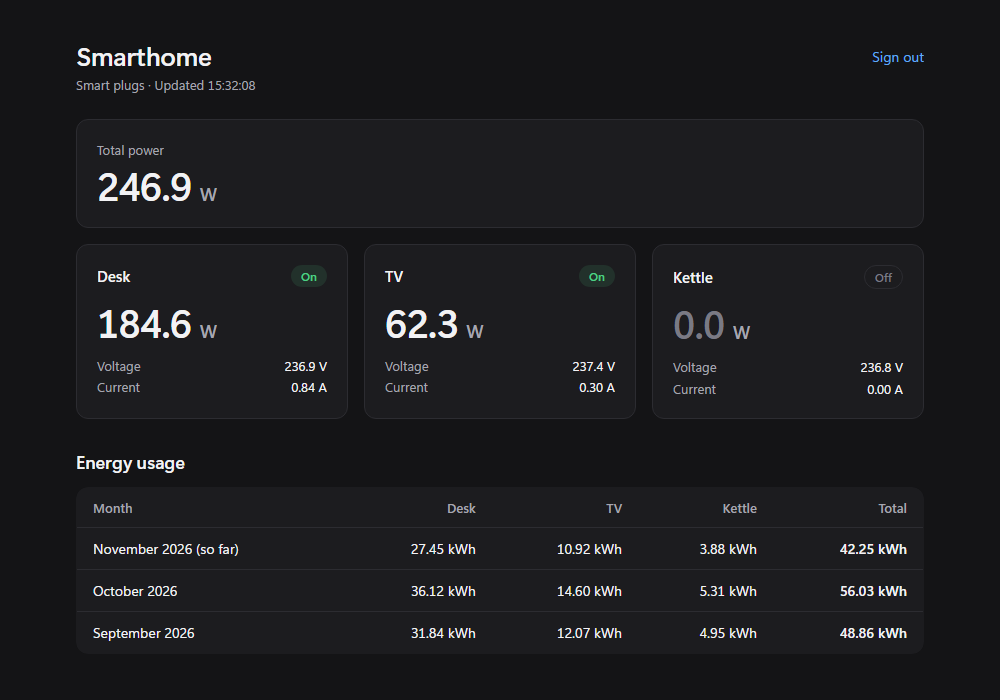
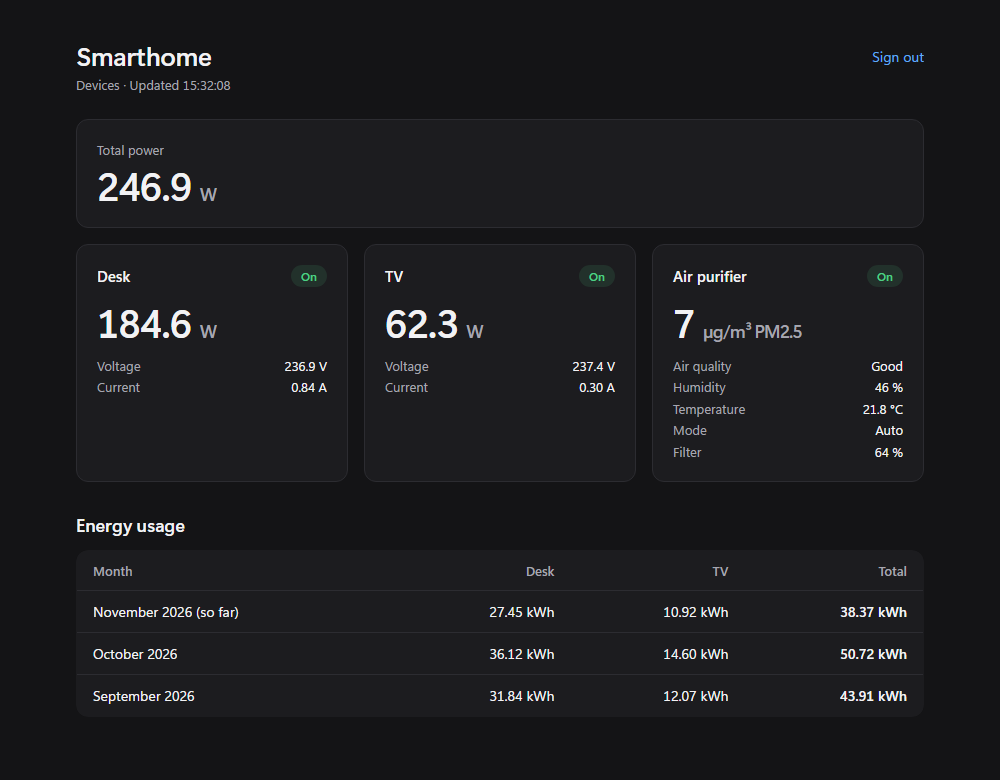
Add the Xiaomi Smart Air Purifier 4 Pro as a dashboard card
Reads PM2.5, humidity, temperature, mode, filter life and faults over
the local miIO protocol. Read-only, like the plugs.

diff --git a/app.js b/app.js
@@ -28,6 +28,34 @@ function card(p) {
   return c;
 }
 
+// PM2.5 bands of the European Air Quality Index (µg/m³)
+const PM25 = [[10, 'Good'], [20, 'Fair'], [25, 'Moderate'], [50, 'Poor'], [75, 'Very poor'], [Infinity, 'Extremely poor']];
+
+function airCard(a) {
+  const c = el('article', 'card' + (a.error || !a.on ? ' off' : ''));
+  const h = el('h2', '', a.name);
+  h.append(el('span', 'pill', a.error ? 'Offline' : a.on ? 'On' : 'Off'));
+  c.append(h);
+  if (a.error) {
+    c.append(el('p', 'err', a.error));
+    return c;
+  }
+  const big = el('p', 'big', a.pm25 + ' ');
+  big.append(el('small', '', 'µg/m³ PM2.5'));
+  const dl = el('dl');
+  const rows = [
+    ['Air quality', PM25.find(([max]) => a.pm25 <= max)[1]],
+    ['Humidity', a.humidity + ' %'],
+    ['Temperature', fmt(a.temp) + ' °C'],
+    ['Mode', a.mode ?? '–'],
+    ['Filter', a.filter + ' %'],
+  ];
+  for (const [k, v] of rows) dl.append(el('dt', '', k), el('dd', '', v));
+  c.append(big, dl);
+  if (a.fault) c.append(el('p', 'warn', a.fault));
+  return c;
+}
+
 function usageTable(months, names) {
   const keys = Object.keys(months || {}).reverse();
   $('empty').hidden = keys.length > 0;
@@ -55,7 +83,7 @@ async function load() {
     const r = await fetch('api.php', { cache: 'no-store' });
     if (r.status === 401) { location.reload(); return; }
     const d = await r.json();
-    $('plugs').replaceChildren(...d.plugs.map(card));
+    $('plugs').replaceChildren(...d.plugs.map(card), ...(d.air ? [airCard(d.air)] : []));
     $('total').textContent = fmt(d.plugs.reduce((s, p) => s + (p.w || 0), 0));
     usageTable(d.months, d.plugs.map((p) => p.name));
     $('updated').textContent = 'Updated ' + new Date(d.time * 1000).toLocaleTimeString(LOCALE);

diff --git a/style.css b/style.css
@@ -54,3 +54,4 @@ td:last-child{font-weight:600}
 @media (max-width:520px){th,td{padding:8px 10px}}
 .scroll{overflow-x:auto;border-radius:12px}
 td{white-space:nowrap}
+.warn{align-self:flex-start;font-size:13px;font-weight:600;color:#1f1400;background:#fdb022;border-radius:6px;padding:4px 10px}

diff --git a/miio.php b/miio.php
@@ -1,0 +1,67 @@
+<?php
+// Minimal Xiaomi miIO/MIoT client (UDP 54321). get_properties only: this project never changes a device.
+declare(strict_types=1);
+
+/** Reads MIoT properties. $props: ['name' => [siid, piid], ...]. Returns ['name' => value, ...]. */
+function miio_props(string $ip, string $token, array $props, float $timeout = 3.0): array
+{
+    $tok = hex2bin($token);
+    if ($tok === false || strlen($tok) !== 16) throw new RuntimeException('token must be 32 hex characters');
+    $key = md5($tok, true);
+    $iv = md5($key . $tok, true);
+
+    $s = @stream_socket_client("udp://$ip:54321", $errno, $errstr, $timeout);
+    if (!$s) throw new RuntimeException("unreachable ($errstr)");
+    stream_set_timeout($s, (int) ceil($timeout));
+    try {
+        // handshake: device answers with its id and a timestamp
+        fwrite($s, hex2bin('21310020' . str_repeat('ff', 28)));
+        $hello = fread($s, 1024);
+        if (strlen((string) $hello) < 32) throw new RuntimeException('no answer');
+        $did = substr($hello, 8, 4);
+        $stamp = unpack('N', substr($hello, 12, 4))[1];
+
+        $params = [];
+        foreach ($props as [$siid, $piid]) $params[] = ['did' => (string) unpack('N', $did)[1], 'siid' => $siid, 'piid' => $piid];
+        $ct = openssl_encrypt(json_encode(['id' => random_int(1, 9999), 'method' => 'get_properties', 'params' => $params]),
+            'AES-128-CBC', $key, OPENSSL_RAW_DATA, $iv);
+        $head = pack('nnN', 0x2131, 32 + strlen($ct), 0) . $did . pack('N', $stamp + 1);
+        fwrite($s, $head . md5($head . $tok . $ct, true) . $ct);
+
+        $r = fread($s, 4096);
+        if (strlen((string) $r) <= 32) throw new RuntimeException('no data (wrong token?)');
+        $plain = openssl_decrypt(substr($r, 32), 'AES-128-CBC', $key, OPENSSL_RAW_DATA, $iv);
+        $j = $plain === false ? null : json_decode(rtrim($plain, "\0"), true);
+        if (!isset($j['result'])) throw new RuntimeException('no data (wrong token?)');
+    } finally {
+        fclose($s);
+    }
+
+    $out = [];
+    $names = array_keys($props);
+    foreach ($j['result'] as $i => $p) {
+        if (($p['code'] ?? -1) === 0) $out[$names[$i]] = $p['value'];
+    }
+    return $out;
+}
+
+/** Xiaomi Smart Air Purifier 4 Pro (zhimi.airp.vb4). Ids from miot-spec.org. */
+function purifier_values(string $ip, string $token): array
+{
+    $v = miio_props($ip, $token, [
+        'on' => [2, 1], 'fault' => [2, 2], 'mode' => [2, 4], 'humidity' => [3, 1],
+        'pm25' => [3, 4], 'temp' => [3, 7], 'filter' => [4, 1], 'rpm' => [9, 1],
+    ]);
+    $faults = [1 => 'PM sensor error', 2 => 'Temperature sensor error', 3 => 'Humidity sensor error', 4 => 'No filter'];
+    $modes = ['Auto', 'Sleep', 'Favorite', 'Manual'];
+    return [
+        'on' => (bool) ($v['on'] ?? false),
+        'pm25' => $v['pm25'] ?? null,
+        'humidity' => $v['humidity'] ?? null,
+        'temp' => $v['temp'] ?? null,
+        'filter' => $v['filter'] ?? null,
+        'rpm' => $v['rpm'] ?? null,
+        'mode' => $modes[$v['mode'] ?? -1] ?? null,
+        'fault' => $faults[$v['fault'] ?? 0] ?? null,
+    ];
+}

diff --git a/api.php b/api.php
@@ -2,6 +2,7 @@
 // Current state of all plugs plus monthly usage, as JSON. Read-only.
 require __DIR__ . '/auth.php';
 require __DIR__ . '/tuya.php';
+require __DIR__ . '/miio.php';
 header('Content-Type: application/json');
 if (!$loggedIn) { http_response_code(401); exit('{"error":"login"}'); }
 session_write_close();
@@ -16,6 +17,14 @@ foreach (PLUGS as $p) {
         $out['plugs'][] = ['name' => $p['name']] + plug_values(tuya_status($p['ip'], $p['id'], $p['key']));
     } catch (Throwable $e) {
         $out['plugs'][] = ['name' => $p['name'], 'error' => $e->getMessage()];
+    }
+}
+if (defined('AIR_PURIFIER')) {
+    $a = AIR_PURIFIER;
+    try {
+        $out['air'] = ['name' => $a['name']] + purifier_values($a['ip'], $a['token']);
+    } catch (Throwable $e) {
+        $out['air'] = ['name' => $a['name'], 'error' => $e->getMessage()];
     }
 }
 $usage = @json_decode((string) @file_get_contents(__DIR__ . '/data/usage.json'), true);

diff --git a/config.example.php b/config.example.php
@@ -18,3 +18,7 @@ const PLUGS = [
 const MAIL_ACCOUNT = '/etc/smarthome/mail.php';
 const MAIL_TO = 'you@example.com';
 const DASHBOARD_URL = 'https://example.com/smarthome';   // optional, shown in the mail
+
+// Optional: Xiaomi Smart Air Purifier 4 Pro (zhimi.airp.vb4), shown as an extra card.
+// The token comes from Xiaomi-cloud-tokens-extractor (see README).
+// const AIR_PURIFIER = ['name' => 'Air purifier', 'ip' => '192.168.1.60', 'token' => '0123456789abcdef0123456789abcdef'];

diff --git a/index.php b/index.php
@@ -37,7 +37,7 @@ if (isset($_GET['logout'])) { session_destroy(); header('Location: ' . strtok($_
   <header>
     <div>
       <h1>Smarthome</h1>
-      <p class="sub">Smart plugs · <span id="updated">loading …</span></p>
+      <p class="sub">Devices · <span id="updated">loading …</span></p>
     </div>
     <a class="logout" href="?logout=1">Sign out</a>
   </header>

diff --git a/README.md b/README.md
@@ -6,6 +6,7 @@ A small read-only dashboard for Wi-Fi smart plugs built on Tuya (Smart Life, Hom
 - total power of all plugs
 - energy usage in kWh per plug and month, with the last 13 months listed
 - optionally, a monthly usage report by email
+- optionally, a Xiaomi Smart Air Purifier 4 Pro: PM2.5, humidity, temperature, mode and filter life
 
 It never switches a plug. The code only sends status queries.
 
@@ -67,7 +68,7 @@ Give every plug a **fixed DHCP lease** in your router, otherwise the IP changes 
 
 Copy the folder to your web server, for example as `/smarthome`. The bundled `.htaccess` (Apache) does this:
 
-- blocks `config.php`, `tuya.php`, `auth.php`, `counter.php`, `report.php`, `mail.php` and `data/`
+- blocks `config.php`, `tuya.php`, `miio.php`, `auth.php`, `counter.php`, `report.php`, `mail.php` and `data/`
 - sets a strict Content Security Policy
 - turns off `DirectorySlash`. Behind a reverse proxy, Apache would otherwise redirect `/smarthome` to an `http://` URL. With it off, `/smarthome` (no slash) needs a rewrite in the parent `.htaccess`:
 
@@ -127,11 +128,27 @@ sudo -u www-data php /var/www/smarthome/report.php --month=2026-11
 0 7 1 * * php /var/www/smarthome/report.php
 ```
 
+### 8. Xiaomi air purifier (optional)
+
+The Xiaomi Smart Air Purifier 4 Pro (`zhimi.airp.vb4`) is read locally over the miIO protocol (UDP port 54321). It needs the device token from the Xiaomi cloud, which you get once with [Xiaomi-cloud-tokens-extractor](https://github.com/PiotrMachowski/Xiaomi-cloud-tokens-extractor):
+
+```sh
+git clone https://github.com/PiotrMachowski/Xiaomi-cloud-tokens-extractor
+cd Xiaomi-cloud-tokens-extractor
+pip install -r requirements.txt
+python token_extractor.py
+```
+
+Sign in with your Xiaomi Home account and copy the 32-character token of the purifier into `AIR_PURIFIER` in `config.php`. The token changes only if the purifier is reset or paired again.
+
+The purifier reports no power usage, so it gets its own card and is not counted in the kWh table. Other Xiaomi purifiers use different property ids. Adjust `purifier_values()` in `miio.php` using the model's spec on [miot-spec.org](https://miot-spec.org).
+
 ## How it works
 
 | File | Purpose |
 |---|---|
 | `tuya.php` | Minimal Tuya 3.3 client: sends an encrypted `DP_QUERY` to port 6668 and decrypts the reply (AES-128-ECB with the local key) |
+| `miio.php` | Minimal Xiaomi miIO client: handshake, then an AES-128-CBC encrypted `get_properties` |
 | `api.php` | JSON for the page: current values of all plugs plus monthly usage. Readings are cached for 4 s, because the plugs handle parallel connections badly. |
 | `counter.php` | Cron job for the kWh counter (CLI only) |
 | `report.php`, `mail.php` | Monthly report and a minimal SMTP client (CLI only) |
